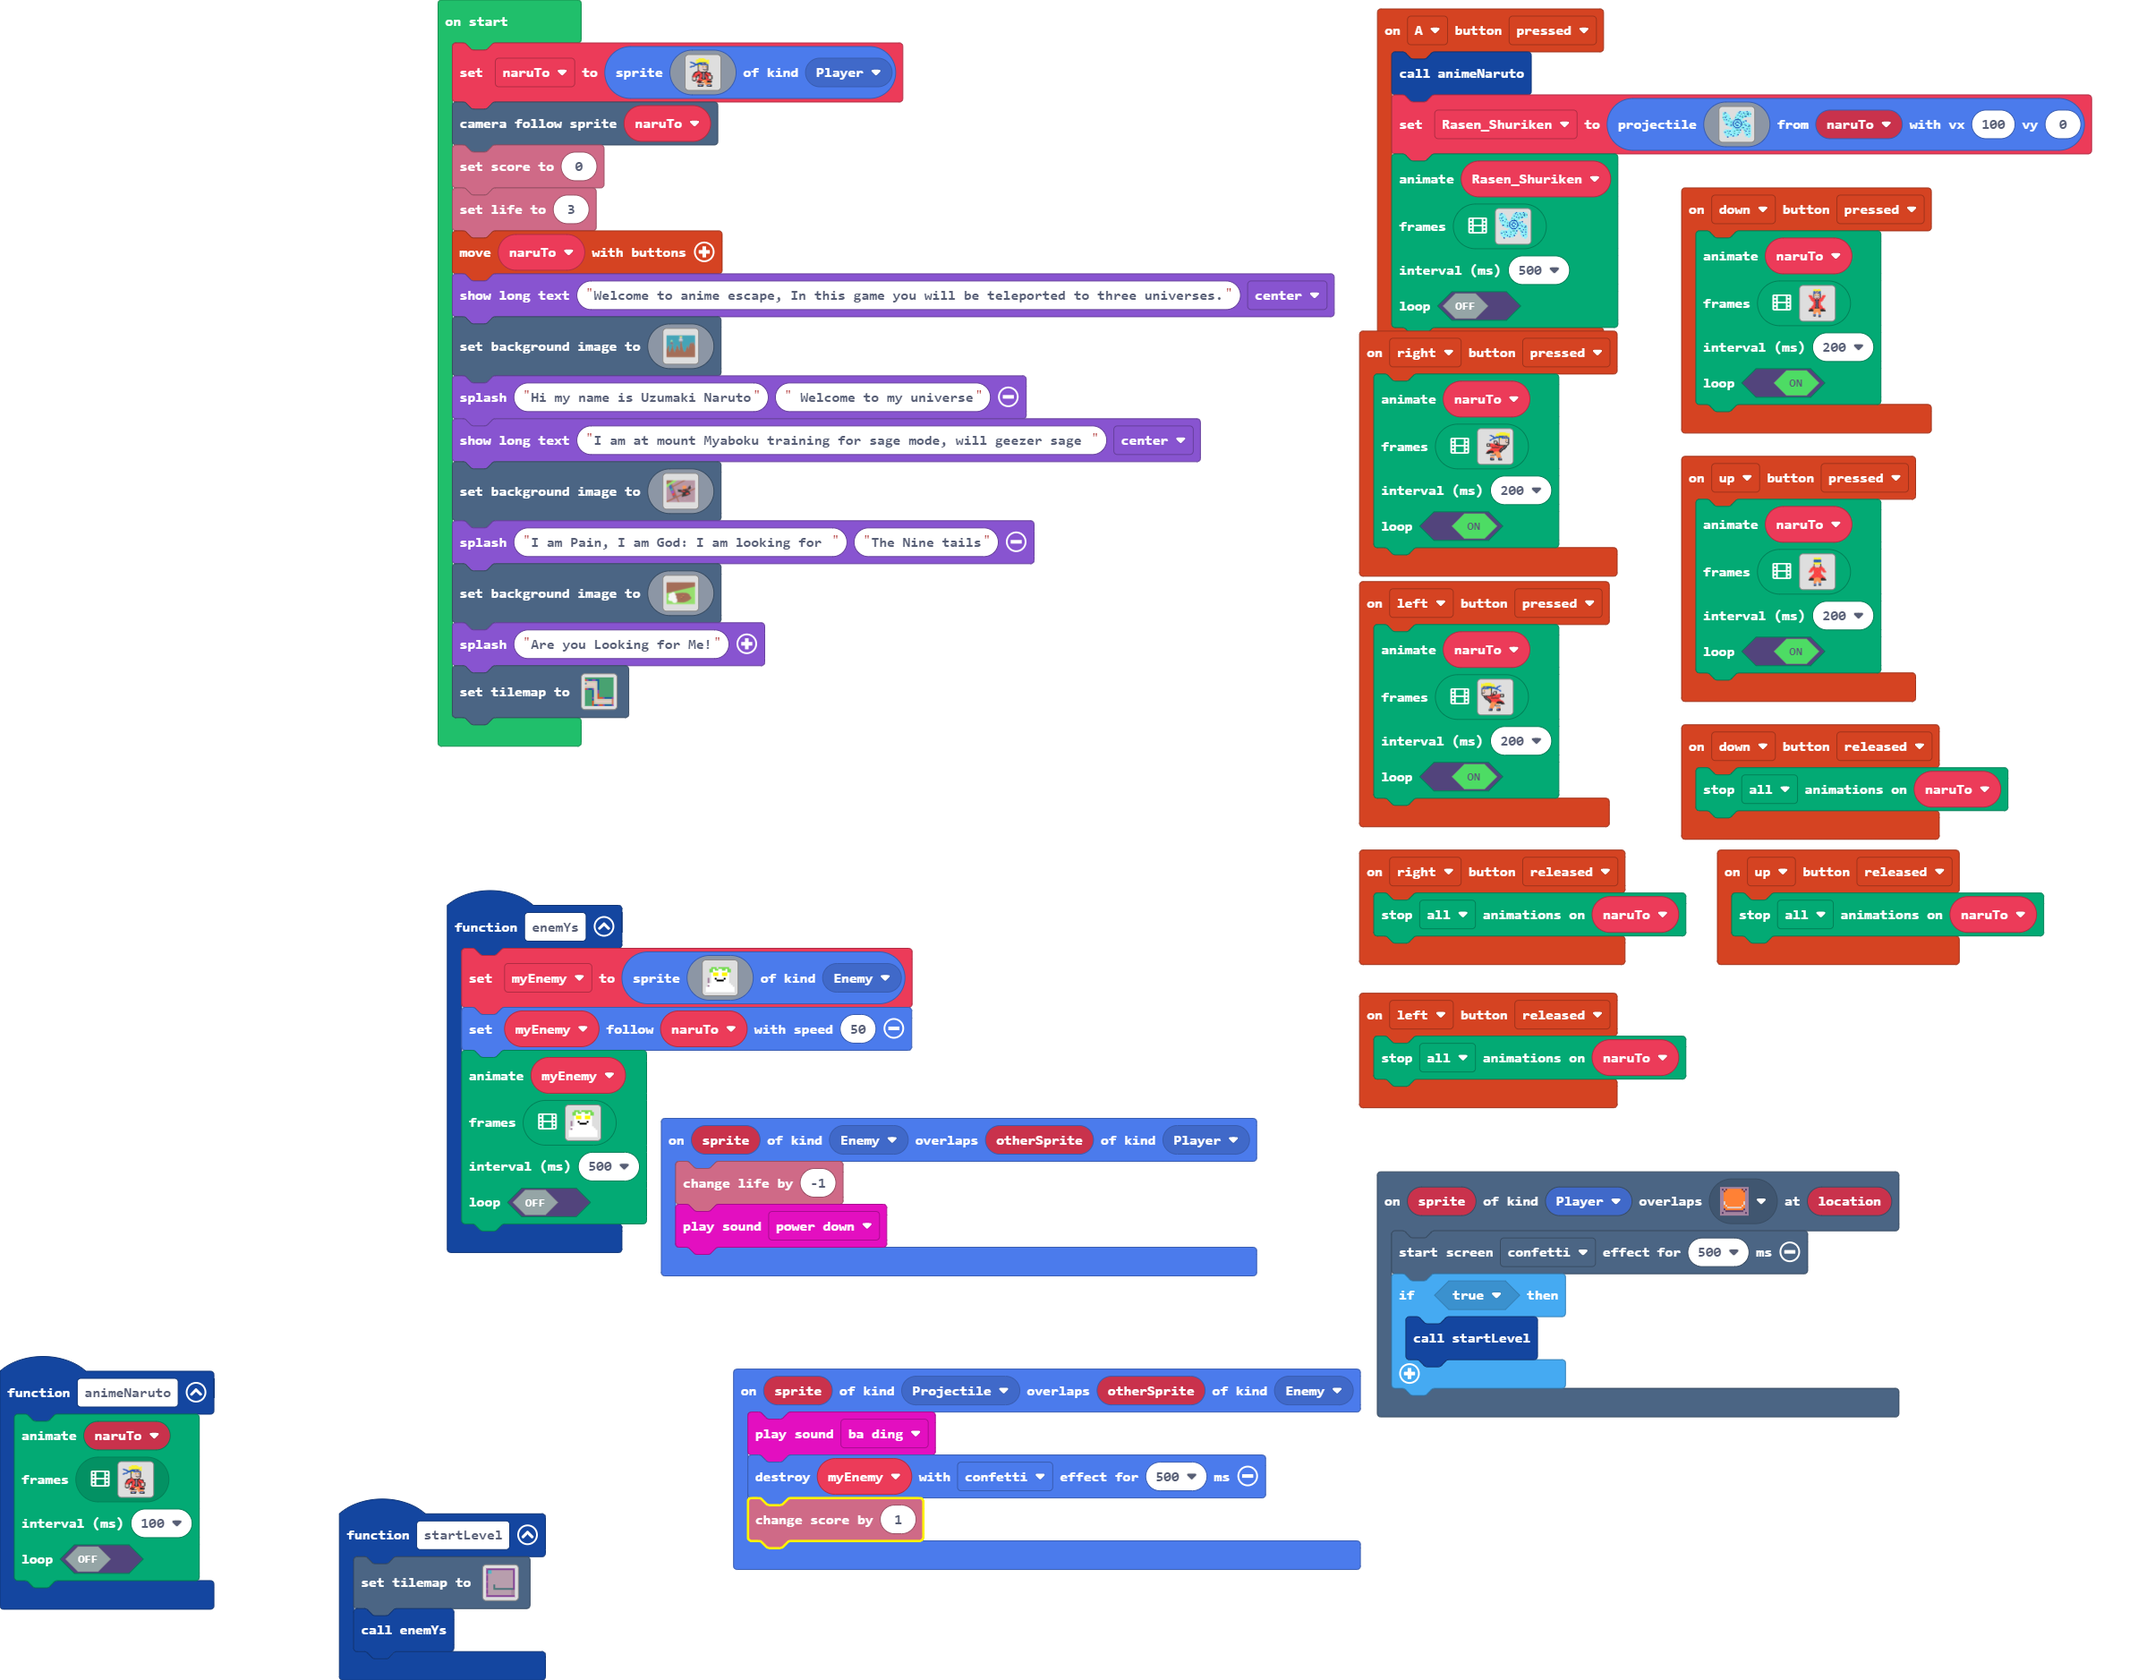
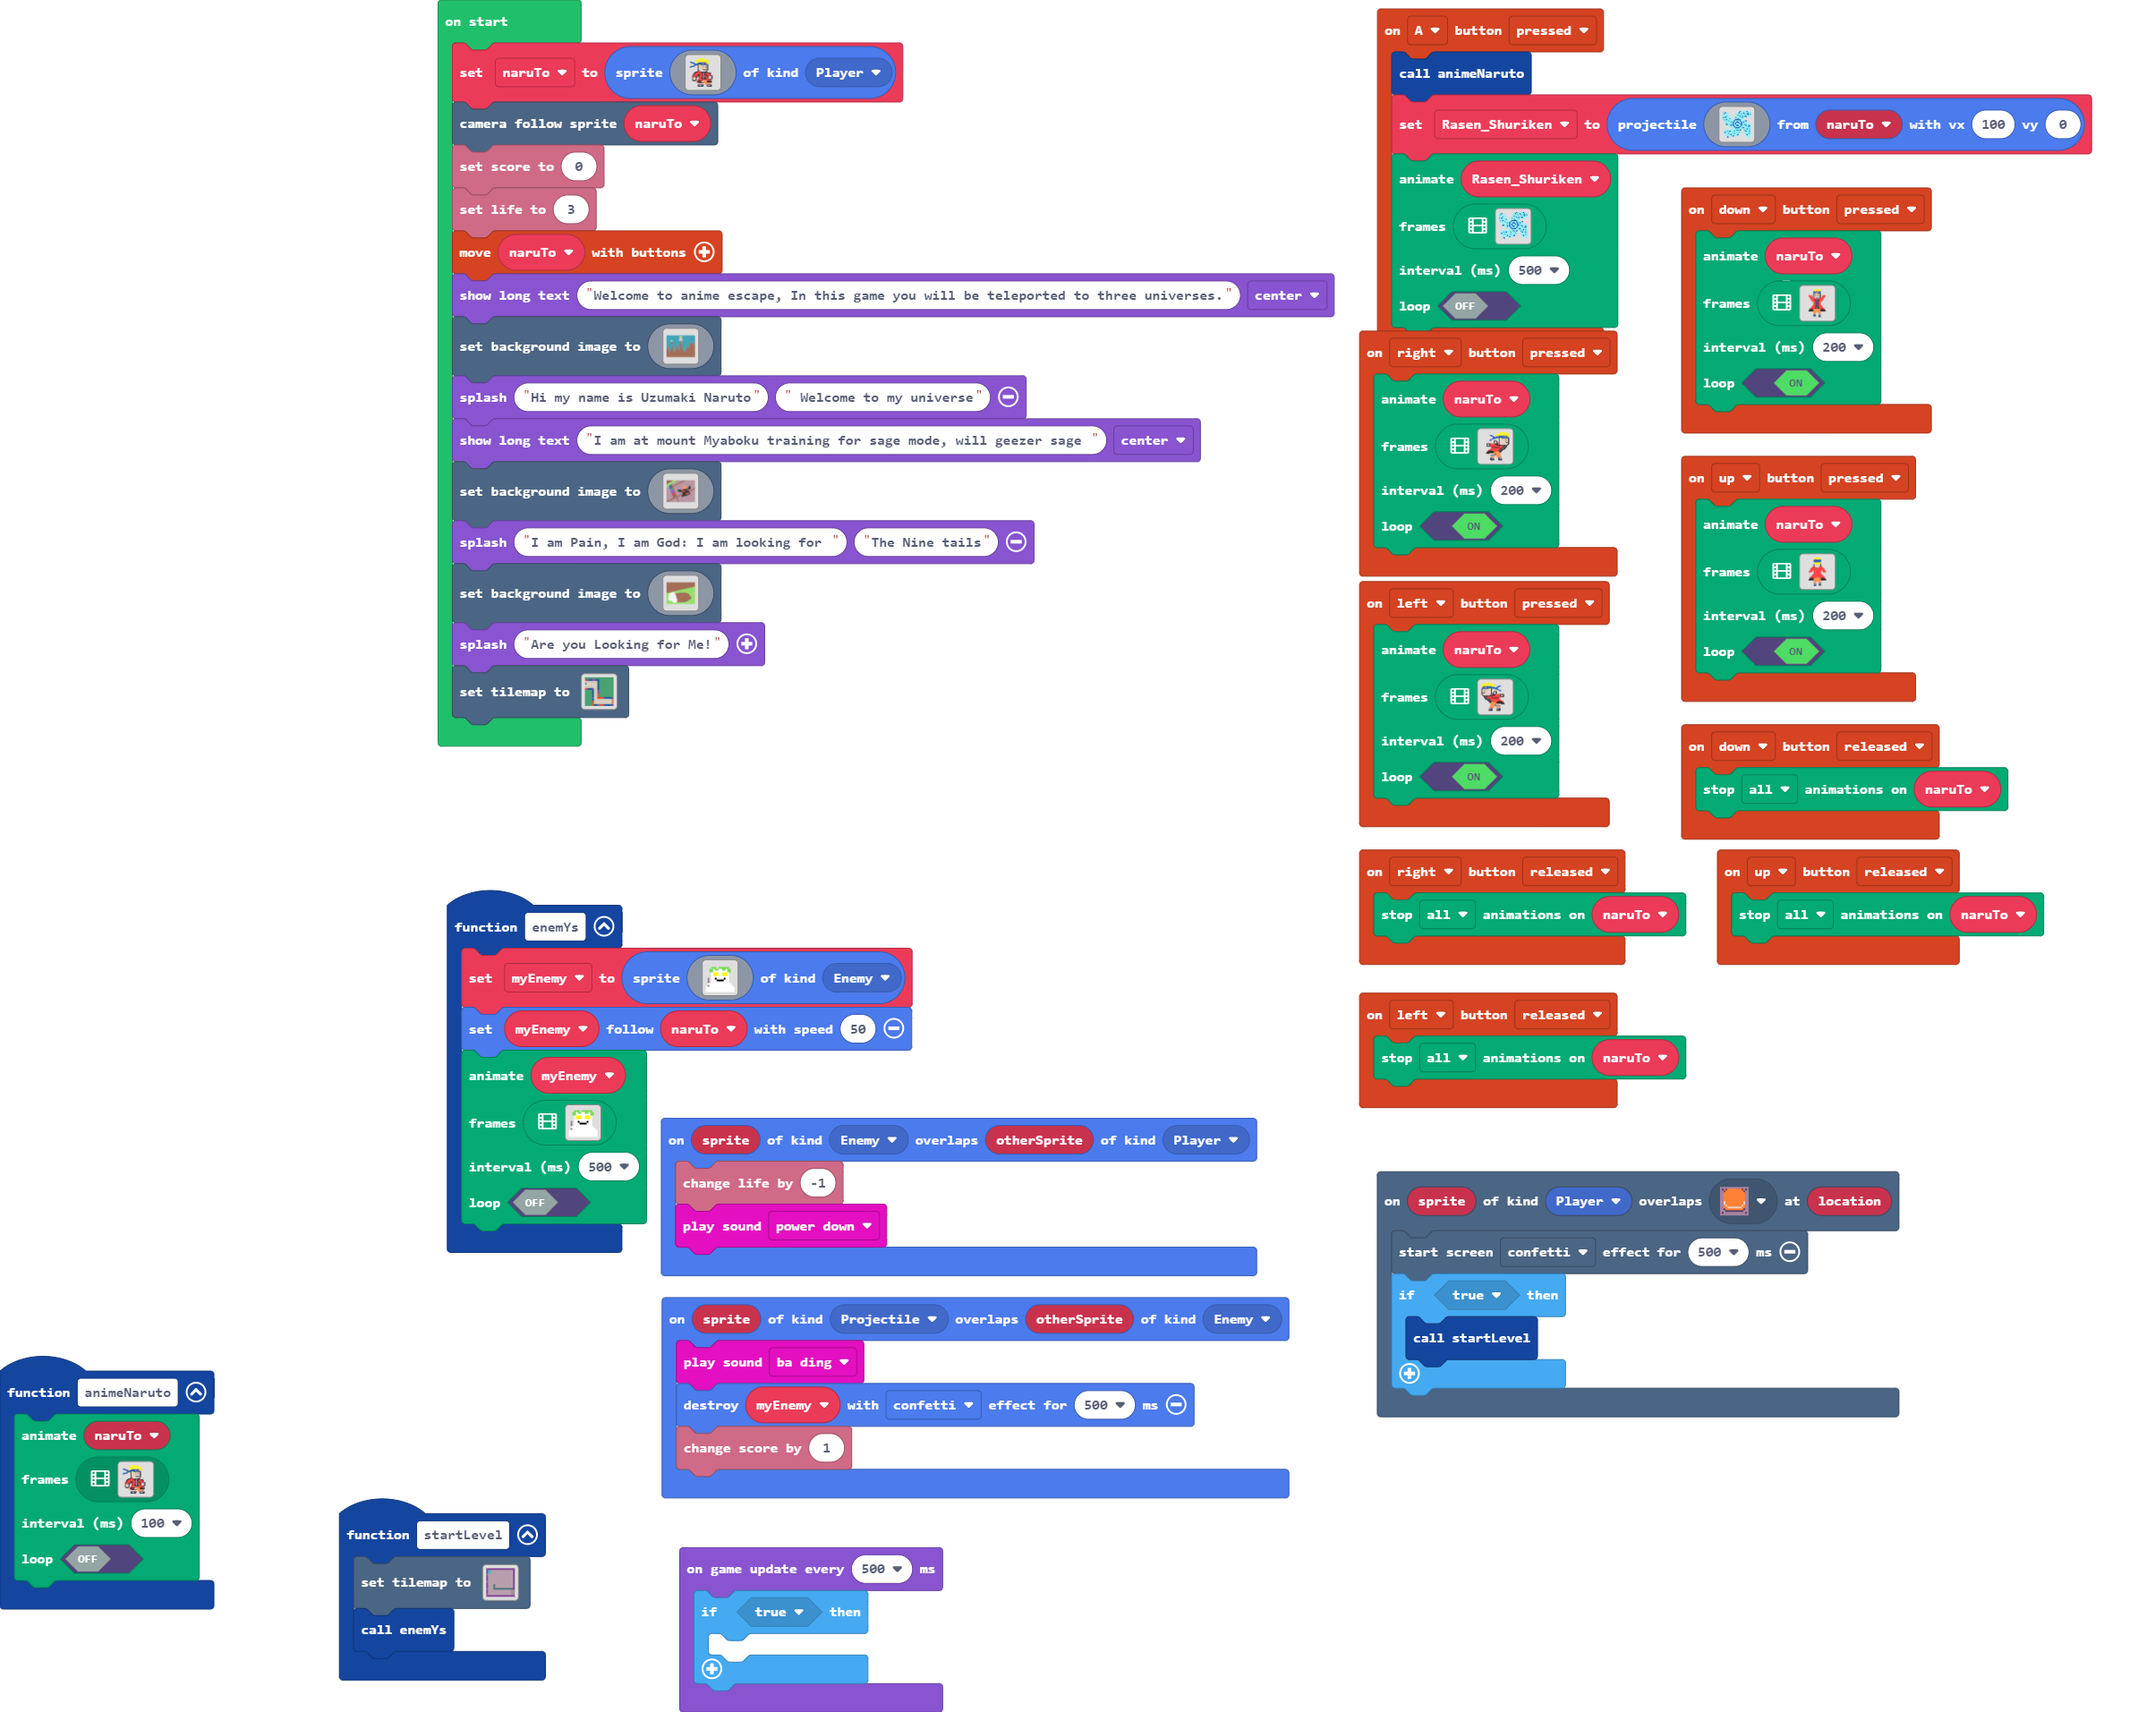
Update main.blocks, main.ts

diff --git a/main.ts b/main.ts
@@ -520,3 +520,8 @@ scene.setBackgroundImage(img`
     `)
 game.splash("Are you Looking for Me!")
 tiles.setTilemap(tilemap`level3`)
+game.onUpdateInterval(500, function () {
+    if (true) {
+    	
+    }
+})
